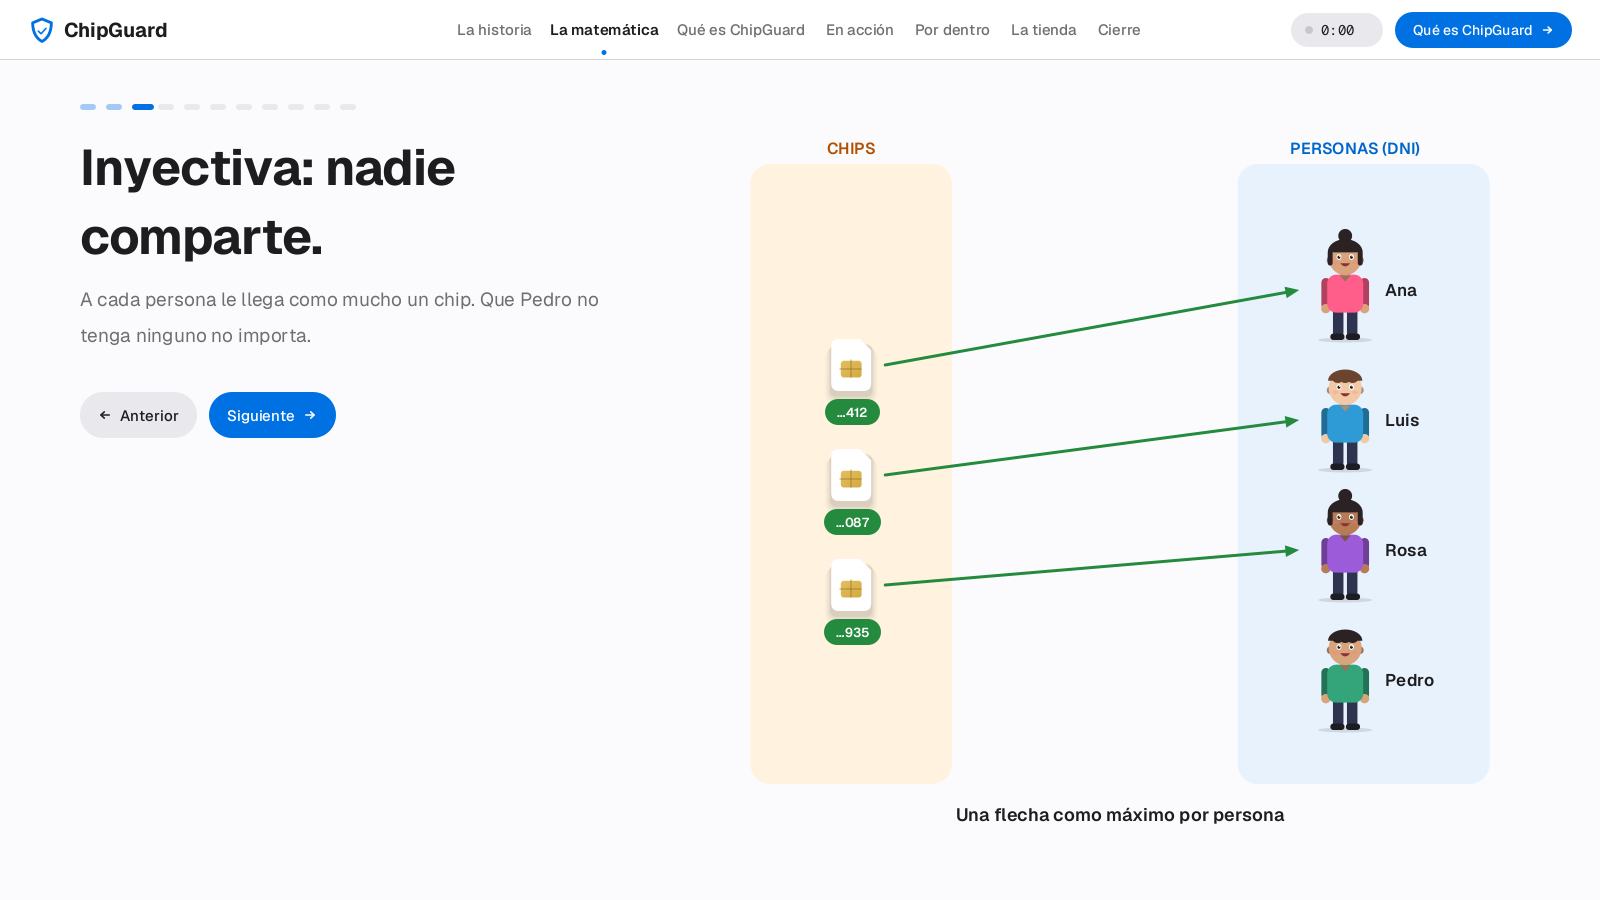
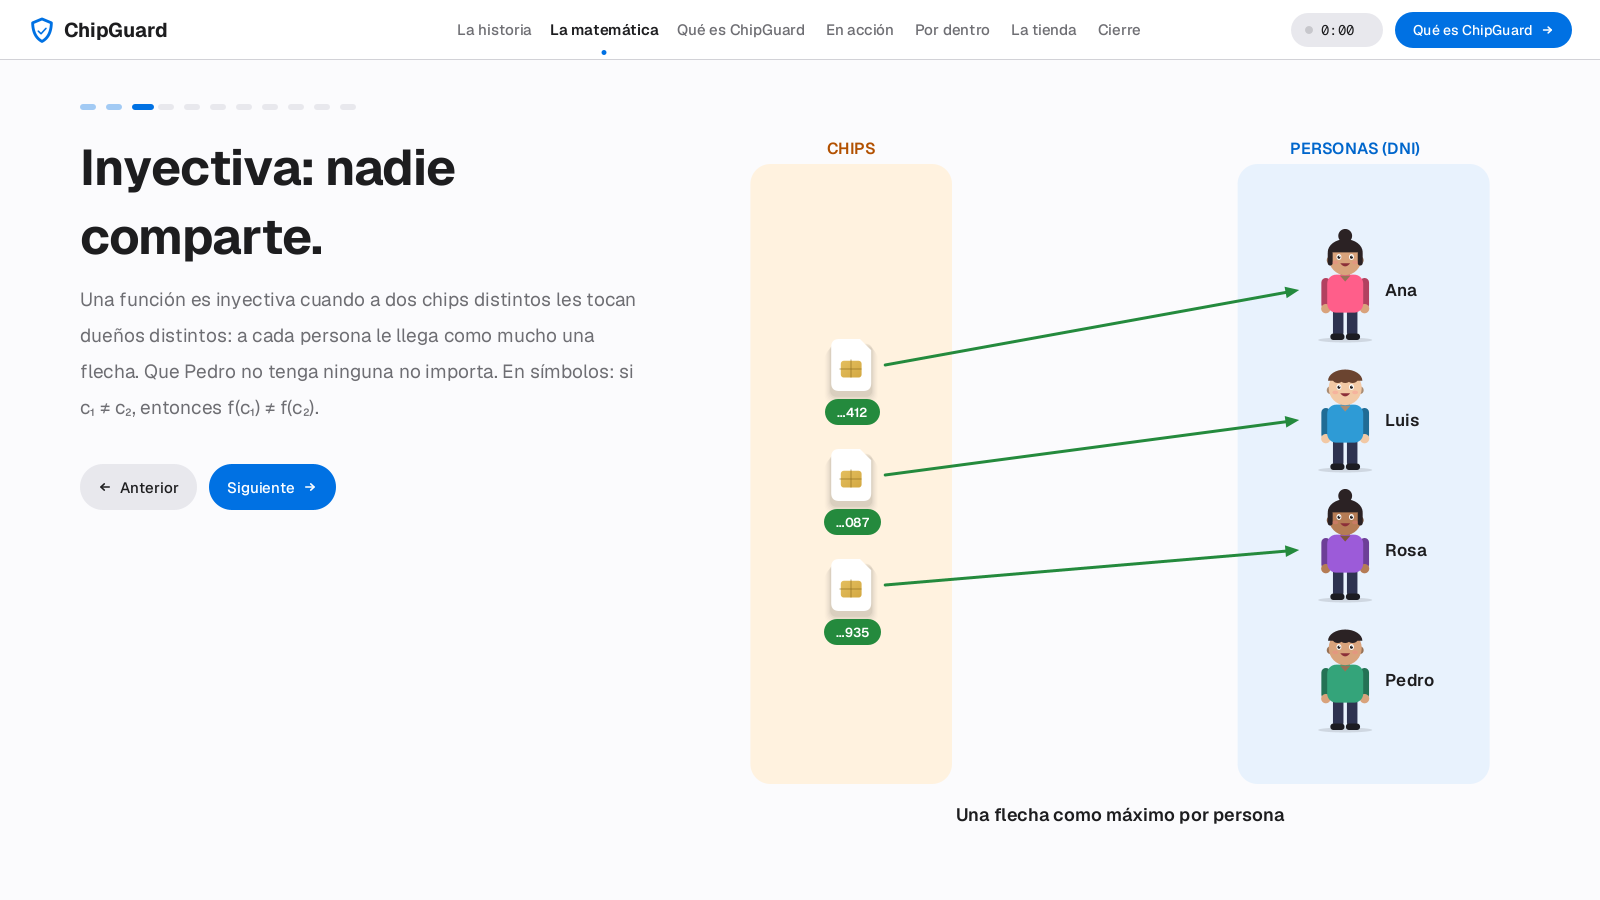
feat: textos más explicativos, comparación fiel a lo que existe hoy y referencias APA con enlaces

Changed region(s): [[0.0312, 0.3111, 0.4062, 0.5911], [0.0625, 0.5289, 0.0938, 0.56]]

diff --git a/src/simuchip/ui/PanelMatematica.java b/src/simuchip/ui/PanelMatematica.java
@@ -32,34 +32,51 @@ public final class PanelMatematica extends PanelEscenas {
     public PanelMatematica() {
         super(List.of(
             new Escena("El registro es una función.",
-                "Cada chip apunta a un solo dueño: nunca a cero, nunca a dos. Eso es una función: f(chip) = su dueño."),
+                "Una función es una regla que a cada elemento del primer conjunto le asigna exactamente un "
+                    + "elemento del segundo. Aquí el primer conjunto son los chips y el segundo, las personas. El "
+                    + "registro de la operadora le asigna a cada chip un solo dueño: nunca a cero, nunca a dos. "
+                    + "Por eso decimos que f(chip) = su dueño. Fíjate: a Ana le llegan dos flechas, y eso está permitido."),
             new Escena("Esto NO sería una función.",
-                "Un chip con dos dueños: ¿a quién busca la policía? Un chip sin dueño: nadie responde por él."),
+                "Para ser función, de cada chip tiene que salir una flecha, y solo una. Si un chip apuntara a "
+                    + "dos dueños, ¿a quién busca la policía? Y si un chip no tuviera dueño, nadie respondería por "
+                    + "él: sería un chip anónimo, justo lo que buscan los extorsionadores."),
             new Escena("Inyectiva: nadie comparte.",
-                "A cada persona le llega como mucho un chip. Que Pedro no tenga ninguno no importa."),
+                "Una función es inyectiva cuando a dos chips distintos les tocan dueños distintos: a cada persona "
+                    + "le llega como mucho una flecha. Que Pedro no tenga ninguna no importa. En símbolos: "
+                    + "si c₁ ≠ c₂, entonces f(c₁) ≠ f(c₂)."),
             new Escena("Caso real: los asientos de un bus.",
-                "Cada pasajero tiene su propio asiento: inyectiva. Sobran asientos vacíos y no pasa nada. "
-                    + "Pero si venden el mismo asiento dos veces (sobreventa), deja de ser inyectiva."),
+                "Pasajeros → asientos. Cada pasajero tiene su propio asiento, así que es inyectiva. Sobran "
+                    + "asientos vacíos y no pasa nada. Pero si la empresa vende el mismo asiento dos veces "
+                    + "(sobreventa), a ese asiento le llegan dos flechas y deja de ser inyectiva: dos personas "
+                    + "pelean por el mismo lugar."),
             new Escena("Sobreyectiva: nadie se queda fuera.",
-                "Todas las personas tienen al menos un chip. Ana tiene dos, y eso se vale."),
+                "Una función es sobreyectiva cuando todos los elementos del segundo conjunto reciben al menos "
+                    + "una flecha: no sobra nadie. Aquí cada persona tiene al menos un chip. Ana tiene dos, y eso se "
+                    + "vale. En símbolos: para toda persona p existe un chip c tal que f(c) = p."),
             new Escena("Caso real: los grupos de esta expo.",
-                "Alumnos → grupos. Ningún grupo puede quedar vacío: todos reciben a alguien. Eso es sobreyectiva "
-                    + "(y como hay más alumnos que grupos, no puede ser inyectiva)."),
+                "Alumnos → grupos. El profesor reparte a todos y ningún grupo puede quedar vacío: todos reciben "
+                    + "a alguien, así que es sobreyectiva. Y como hay más alumnos que grupos, a algún grupo le "
+                    + "tocan varios: no puede ser inyectiva."),
             new Escena("Biyectiva: parejas perfectas.",
-                "Un chip, una persona, y de vuelta. Con la inversa vas del chip a la persona sin perderte. "
-                    + "Eso es lo que necesita la policía."),
+                "Si una función es inyectiva y sobreyectiva a la vez, es biyectiva: cada chip con una persona y "
+                    + "cada persona con un chip. Solo entonces existe la inversa f⁻¹, que va de vuelta de la persona "
+                    + "al chip sin perderse. Eso es lo que necesita la policía para llegar a la persona correcta."),
             new Escena("Caso real: tú y tu DNI.",
-                "Cada persona tiene un DNI y cada DNI es de una sola persona: biyectiva. Con el DNI encuentras a la "
-                    + "persona y con la persona, su DNI. Por eso a la policía le sirve tanto."),
+                "Personas → DNI. Cada persona tiene un DNI y cada DNI es de una sola persona: es biyectiva. Por "
+                    + "eso funciona en las dos direcciones. Con tu DNI te encuentran a ti, y contigo encuentran tu "
+                    + "DNI. Si alguien usa tu DNI para sacar un chip, rompe esa pareja perfecta."),
             new Escena("El problema: dos flechas que no coinciden.",
-                "Cada chip tiene dos flechas: a nombre de quién está (el registro) y quién lo usa de verdad. "
-                    + "En el …935 apuntan a personas distintas."),
+                "Cada chip tiene en realidad dos flechas. La del registro dice a nombre de quién está y la del uso "
+                    + "real dice quién lo usa de verdad. En el chip …935, la del registro apunta a Ana y la del uso "
+                    + "real, al extorsionador. La policía sigue la primera y llega a una inocente."),
             new Escena("3 cajones por DNI: el palomar.",
-                "Si cada DNI tuviera solo 3 cajones para chips y llegan 5, 2 no caben. Más cosas que cajones: "
-                    + "algo se queda fuera. Ese es el principio del palomar."),
+                "Principio del palomar: si metes más objetos que cajones, algún cajón tiene que quedarse con más de "
+                    + "uno o algo queda fuera. Si cada DNI tuviera solo 3 cajones para chips y llegan 5, dos no "
+                    + "caben. Así funciona un tope de líneas por persona: nadie puede acumular chips sin límite."),
             new Escena("La solución: que las dos flechas lleguen a la misma persona.",
-                "Que ningún chip se active sin que su dueño lo confirme desde su celular. Así, quien figura en el "
-                    + "registro es quien lo usa: chip ↔ persona real.")
+                "Si ningún chip se activa sin que su dueño lo confirme desde su celular, la flecha del registro y "
+                    + "la del uso real terminan en la misma persona. Entonces cada chip lleva a alguien real que "
+                    + "dijo «sí, soy yo»: chip ↔ persona, como una biyección. Esa es la idea de ChipGuard.")
         ));
     }
 
@@ -262,7 +279,7 @@ public final class PanelMatematica extends PanelEscenas {
         Personitas.persona(g, ANA, xIzq, yGente + alto / 2, alto, solucion ? Cara.FELIZ : Cara.ASUSTADA, 1);
         etiquetaBajo(g, "Ana", xIzq, yGente + alto / 2 + 26);
         if (solucion) {
-            Personitas.celular(g, xIzq + alto * 0.42, yGente, alto * 0.42, "✓ Fui yo", Tema.VERDE,
+            Personitas.celular(g, xIzq + alto * 0.62, yGente, alto * 0.42, "✓ Fui yo", Tema.VERDE,
                     tramo(t, 0.3, 0.4));
         } else {
             Personitas.persona(g, EXTORSIONADOR, xDer, yGente + alto / 2, alto, Cara.MALA, 1);

diff --git a/src/simuchip/ui/PanelCierre.java b/src/simuchip/ui/PanelCierre.java
@@ -14,7 +14,7 @@ public final class PanelCierre extends PanelEscenas {
             new Escena("¿Ya revisaste tus líneas?",
                 "Saca tu celular ahora: busca «Checa tus líneas» de OSIPTEL y pon tu DNI. Si aparece un chip que no es "
                     + "tuyo, repórtalo ahí mismo. Hoy lo haces a mano; con ChipGuard te avisaría solo."),
-            new Escena("Fuentes.", "Datos y normas citados en la presentación.", true)
+            new Escena("Referencias.", "En formato APA (7.ª ed.). Los enlaces llevan a la fuente original.", true)
         ));
     }
 
@@ -67,22 +67,23 @@ public final class PanelCierre extends PanelEscenas {
 
     private void fuentes(Graphics2D g, Rectangle a, double t) {
         String[] lista = {
-            "Congreso de la República (2025). OSIPTEL bloquea más de 650 mil celulares y alerta crecimiento del uso delictivo de líneas móviles.",
-            "DPL News (2025). Osiptel dispuso la baja de más de 102 mil líneas con registros inconsistentes.",
-            "Canal N (2025). Osiptel detecta 200 mil usuarios con más de 10 líneas móviles.",
-            "LP Derecho / La República (2025). Resolución 000116-2025-CD/OSIPTEL: medidas de seguridad en la contratación móvil.",
-            "OSIPTEL. Cómo contratar un servicio móvil de manera segura; norma contra contrataciones no solicitadas.",
-            "Infobae (2024). Intervienen galería en el Centro de Lima donde se vendían chips suplantados.",
-            "Infobae (2025). Venta ilegal de chips bajo la mira: Osiptel explica plan para rastrear cada línea móvil.",
-            "El Imparcial (2026). Perú y la validación con huellas dactilares (moldes de silicona).",
-            "Rosen, K. H. (2019). Discrete Mathematics and Its Applications (8.ª ed.). McGraw-Hill."
+            "América TV. (s. f.). Así operaba banda criminal que vendía chips activados a nombre de terceras personas. https://www.americatv.com.pe/noticias/amp/actualidad/asi-operaba-banda-criminal-que-vendia-chips-activados-nombres-terceras-personas-n492832",
+            "Bloomberg Línea. (s. f.). ¿Pueden clonar su huella digital y robar su dinero? Así operaban «Los Huelleros del Norte» en Perú. https://www.bloomberglinea.com/latinoamerica/peru/pueden-clonar-su-huella-digital-y-robar-su-dinero-asi-operaban-los-huelleros-del-norte-en-peru/",
+            "Canal N. (2025). Osiptel detecta 200 mil usuarios con más de 10 líneas móviles. https://canaln.pe/actualidad/osiptel-detecta-200-mil-usuarios-mas-10-lineas-moviles-n488632",
+            "Congreso de la República del Perú. (2025). OSIPTEL bloquea más de 650 mil celulares y alerta crecimiento del uso delictivo de líneas móviles. https://comunicaciones.congreso.gob.pe/damos-cuenta/osiptel-bloquea-mas-de-650-mil-celulares-y-alerta-crecimiento-del-uso-delictivo-de-lineas-moviles/",
+            "DPL News. (2025). Perú: Osiptel dispuso la baja de más de 102 mil líneas con registros inconsistentes durante el estado de emergencia. https://dplnews.com/peru-osiptel-dispuso-baja-102-mil-lineas-registros-inconsistentes-estado-de-emergencia/",
+            "DPL News. (s. f.). Perú: Osiptel refuerza acciones contra la venta ambulatoria de chips con operativo preventivo en Lima Norte. https://dplnews.com/peru-osiptel-refuerza-acciones-contra-venta-ambulatoria-chips-operativo-preventivo-lima-norte/",
+            "El Peruano. (2025). ¿Puedes bloquear nuevas líneas a tu nombre? Osiptel habilita restricción contra contrataciones no autorizadas. https://elperuano.pe/noticia/288845-puedes-bloquear-nuevas-lineas-a-tu-nombre-osiptel-habilita-restriccion-contra-contrataciones-no-autorizadas",
+            "El Peruano. (s. f.). Osiptel refuerza tu seguridad: detecta y reporta líneas móviles no contratadas en Checa tus líneas. https://elperuano.pe/noticia/288143-osiptel-refuerza-tu-seguridad-detecta-y-reporta-lineas-moviles-no-contratadas-en-checa-tus-lineas",
+            "Organismo Supervisor de Inversión Privada en Telecomunicaciones. (2025). Resolución de Consejo Directivo N.° 000116-2025-CD/OSIPTEL. https://www.osiptel.gob.pe/media/xpxl0map/resol116-2025-cd.pdf",
+            "Rosen, K. H. (2019). Discrete mathematics and its applications (8.ª ed.). McGraw-Hill Education."
         };
         int y = a.y;
-        g.setFont(Tema.letra(Font.PLAIN, 16f));
+        g.setFont(Tema.letra(Font.PLAIN, 15f));
         for (int k = 0; k < lista.length; k++) {
             double p = tramo(t, 0.1 + k * 0.08, 0.4);
             g.setColor(Tema.conAlfa(Tema.AZUL_NOCHE, (int) (255 * p)));
-            y += Tema.parrafo(g, lista[k], a.x, y, a.width, 1.3f) + 8;
+            y += Tema.parrafo(g, lista[k], a.x + 28, y, a.width - 28, 1.22f) + 6;
         }
     }
 }

diff --git a/src/simuchip/ui/PanelQueEs.java b/src/simuchip/ui/PanelQueEs.java
@@ -22,8 +22,8 @@ public final class PanelQueEs extends PanelEscenas {
     public PanelQueEs() {
         super(List.of(
             new Escena("¿Qué es ChipGuard?",
-                "Un servicio gratuito que protege tu DNI: nadie puede activar un chip a tu nombre sin tu permiso. "
-                    + "Tiene tres partes.", true),
+                "Es nuestra propuesta: un servicio gratuito que protege tu DNI. La regla es simple: nadie puede activar "
+                    + "un chip a tu nombre sin tu permiso. Para lograrlo tiene tres partes, una para cada tipo de usuario.", true),
             new Escena("¿Para qué sirve?", "Cuatro cosas, todas desde tu celular.", true),
             new Escena("¿Quién lo usa?", "Tres actores, cada uno con su propia pantalla.", true),
             new Escena("La app, pantalla por pantalla.",
@@ -31,8 +31,9 @@ public final class PanelQueEs extends PanelEscenas {
             new Escena("La web: para quien no tiene app.",
                 "Desde cualquier navegador: pones tu DNI, recibes un código por SMS y ves tus chips.", true),
             new Escena("¿Qué cambia frente a lo que existe hoy?",
-                "Hoy OSIPTEL ya tiene «Checa tus líneas», pero tienes que acordarte de revisar. ChipGuard te avisa "
-                    + "antes de que el chip funcione.", true)
+                "OSIPTEL ya tiene «Checa tus líneas» y permite restringir nuevas líneas a tu nombre. Es un gran paso, "
+                    + "pero tú tienes que ir a revisar. ChipGuard une todo en tu celular y te pregunta ANTES de que el chip "
+                    + "funcione.", true)
         ));
     }
 
@@ -437,11 +438,11 @@ public final class PanelQueEs extends PanelEscenas {
 
     private void comparacion(Graphics2D g, Rectangle a, double t) {
         String[][] filas = {
-            {"¿Cuándo te enteras?", "Cuando tú entras a revisar", "Al instante, con una alerta"},
-            {"¿El chip ya funciona?", "Sí, ya puede extorsionar", "No: espera tu permiso"},
-            {"¿Cómo lo bloqueas?", "Trámite con la operadora", "Un toque: «No fui yo»"},
-            {"¿Y la tienda?", "Nadie la reporta", "Reporte automático a OSIPTEL"},
-            {"¿Cuánto te cuesta?", "Gratis", "Gratis"}
+            {"¿Cómo ves tus chips?", "Entras a la web cuando te acuerdas", "Siempre en tu celular"},
+            {"¿Cuándo te enteras?", "Cuando revisas, o por un SMS si llega", "Al instante, antes de activar"},
+            {"¿El chip ya funciona?", "Sí: se activa y luego reclamas", "No: espera tu permiso"},
+            {"¿Bloquear nuevas líneas?", "Sí, una restricción general", "Sí, y además chip por chip"},
+            {"¿Y la tienda?", "Reclamo aparte", "Reporte automático a OSIPTEL"}
         };
         int alto = Math.min(78, (a.height - 70) / filas.length);
         int c1 = a.x;
@@ -465,10 +466,8 @@ public final class PanelQueEs extends PanelEscenas {
             g.setColor(Tema.conAlfa(Tema.AZUL_NOCHE, al));
             Tema.texto(g, filas[f][0], c1, y + alto / 2.0 + 8);
             g.setFont(Tema.letra(Font.PLAIN, 19f));
-            g.setColor(Tema.conAlfa(Tema.ROJO_OSCURO, f == 4 ? 0 : al));
-            if (f == 4) {
-                g.setColor(Tema.conAlfa(Tema.AZUL_NOCHE, al));
-            }
+            g.setColor(Tema.conAlfa(Tema.ROJO_OSCURO, al));
+            
             Tema.texto(g, filas[f][1], c2, y + alto / 2.0 + 7);
             g.setFont(Tema.letra(Font.BOLD, 19f));
             g.setColor(Tema.conAlfa(Tema.VERDE, al));

diff --git a/src/simuchip/ui/PanelHistoria.java b/src/simuchip/ui/PanelHistoria.java
@@ -19,18 +19,18 @@ public final class PanelHistoria extends PanelEscenas {
 
     public PanelHistoria() {
         super(List.of(
-            new Escena("Ella es Ana.", "Tiene una bodega en Comas y un solo chip. Hoy va a sacar uno nuevo.", true),
+            new Escena("Ella es Ana.", "Tiene 34 años, una bodega en Comas y un solo chip. Hoy va a una tienda de su barrio a sacar uno nuevo para su negocio. Lo que pasa en los próximos minutos le va a cambiar la semana.", true),
             new Escena("«Uy, no salió. Ponga su huella otra vez.»",
-                "Ana pone su huella dos veces. Con la segunda, el vendedor registra un chip extra a su nombre.", true),
+                "Para sacar un chip piden tu DNI y tu huella. El vendedor dice que la primera «no salió» y Ana la pone otra vez. Con esa segunda huella, válida para RENIEC, él registra un segundo chip a nombre de Ana. OSIPTEL advierte justamente sobre esta trampa.", true),
             new Escena("El chip extra se vende por la espalda.",
-                "Ana se va feliz con su chip. El otro, a nombre de Ana, termina en manos de un extorsionador.", true),
+                "Ana se va feliz con su chip. El otro chip, a nombre de Ana, se vende por la espalda a un extorsionador. Para el sistema, ese chip es de Ana; para la ley, la responsable es Ana.", true),
             new Escena("«Paga o te va a ir mal.»",
-                "Desde ese chip amenazan a Don Julio, un comerciante. El número que le aparece está a nombre de Ana.",
+                "Desde ese chip llaman a Don Julio, un comerciante, y le exigen dinero. Don Julio denuncia y entrega el número. Ese número, en el registro, está a nombre de Ana.",
                 true),
             new Escena("La policía rastrea el número… y llega a Ana.",
-                "El registro dice que el chip es de Ana. El verdadero culpable sigue libre.", true),
+                "La policía hace lo correcto: rastrea el número en el registro de la operadora. Pero el registro dice que el chip es de Ana. Ella es citada, investigada y asustada, mientras el verdadero culpable sigue libre.", true),
             new Escena("Y no es solo Ana.",
-                "En 2025, OSIPTEL encontró cientos de miles de líneas con datos que no cuadran.", true)
+                "En 2025, OSIPTEL encontró cientos de miles de líneas cuyos datos no cuadran con quien las usa, y unas 200 mil personas con más de 10 líneas a su nombre. Muchas de ellas, como Ana, no lo saben.", true)
         ));
     }
 
